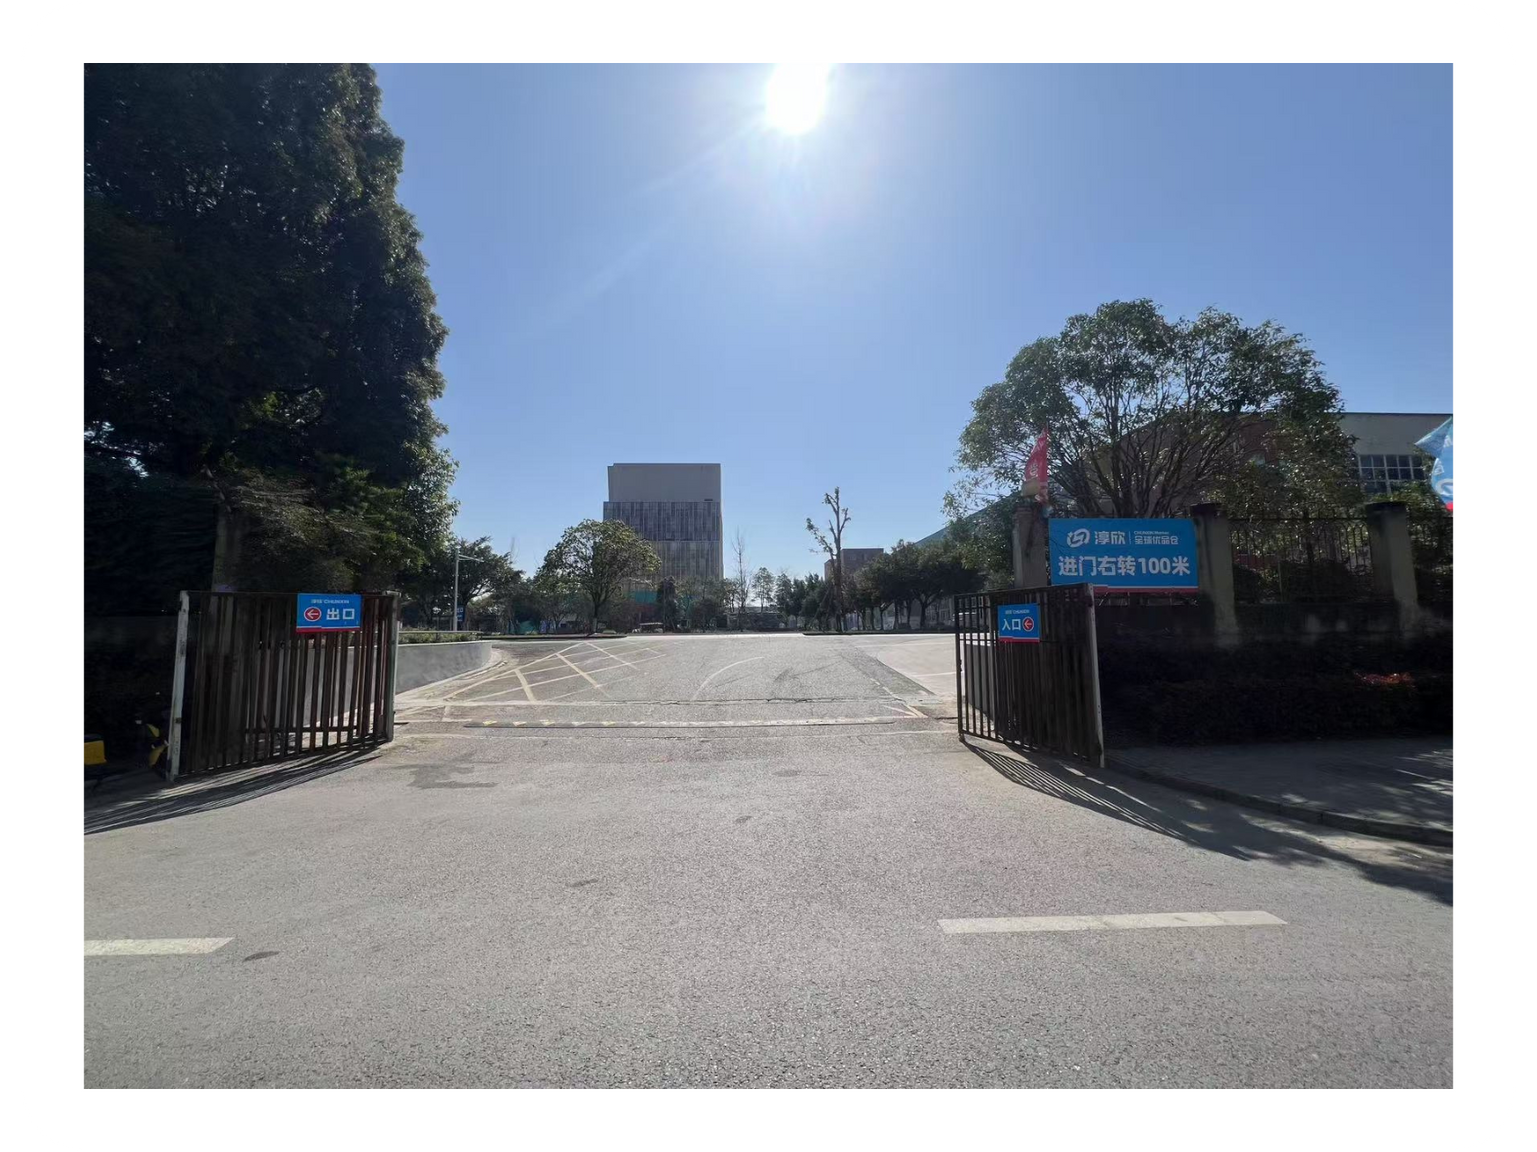
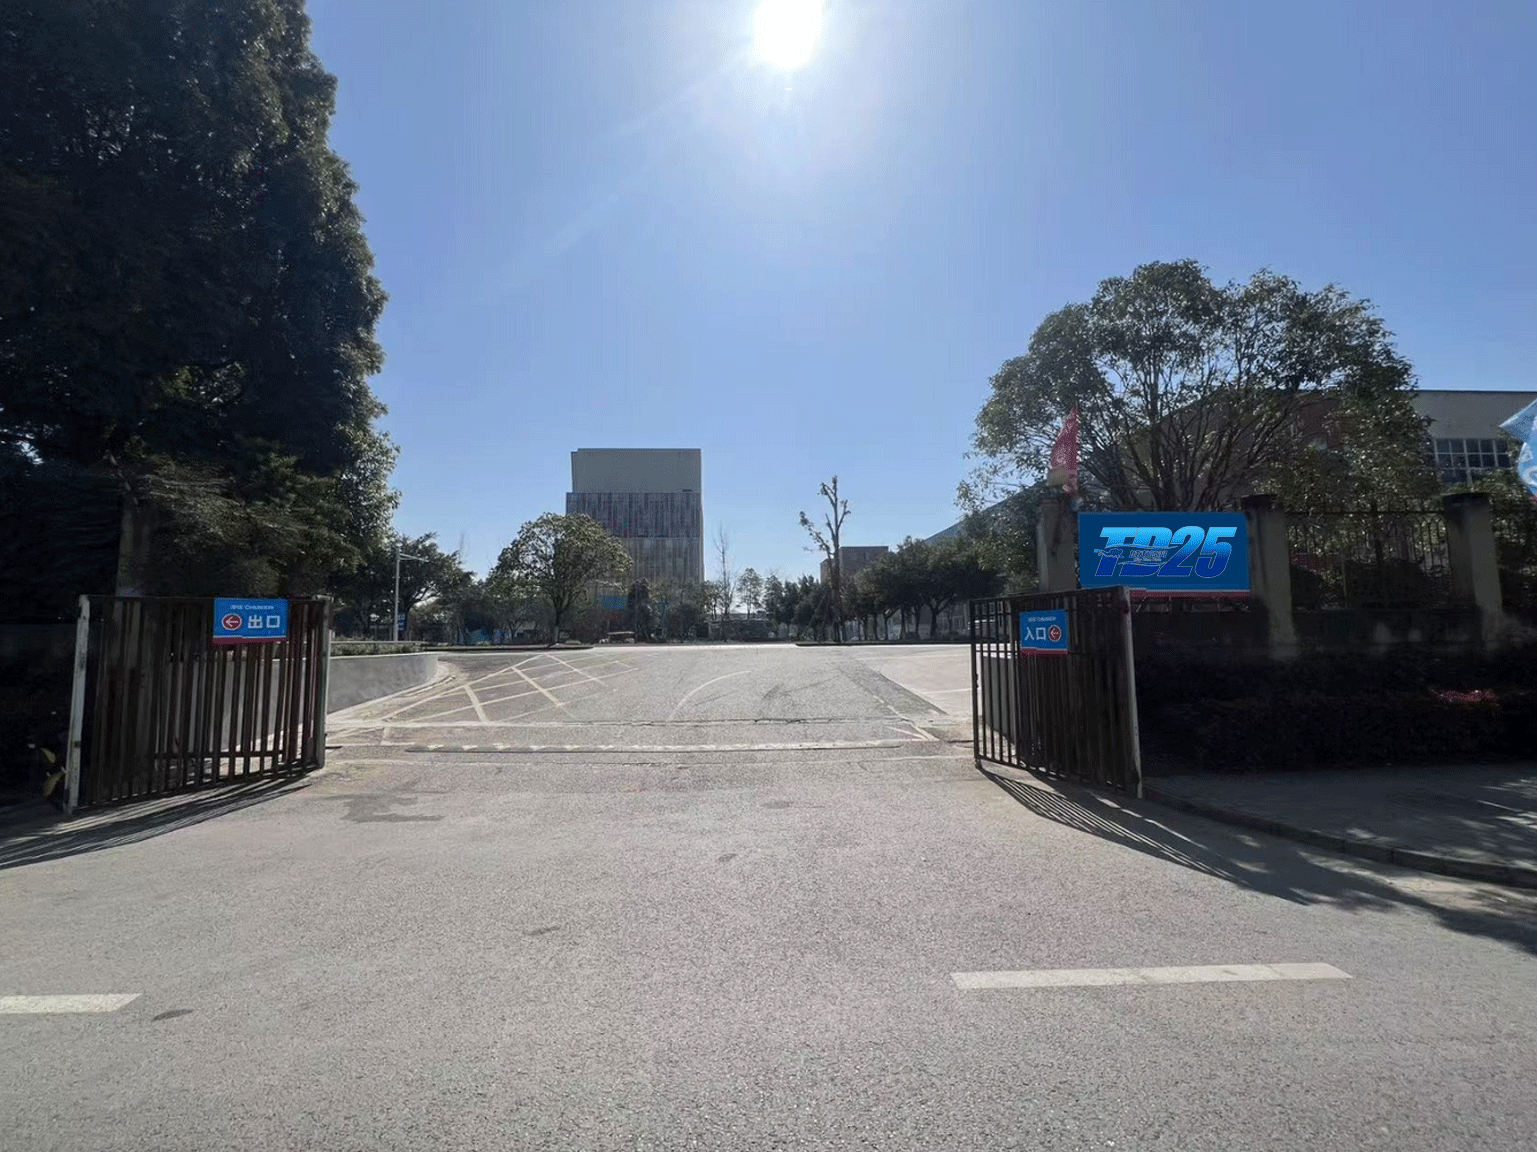
Update parking guide content and images

diff --git a/index.html b/index.html
@@ -458,7 +458,7 @@
             <span>Parking Guidance</span>
           </div>
         </div>
-        <a class="call-btn" href="tel:13800138000">打电话</a>
+        <a class="call-btn" href="tel:19136299202">打电话</a>
       </div>
     </div>
 
@@ -585,16 +585,15 @@
       <div class="quick-notice" style="margin-top: 0; margin-bottom: 14px;">
         <strong>先记住这三件事</strong>
         <ul>
-          <li>不要把导航终点直接理解成车位位置，先到园区入口。</li>
-          <li>通过闸机后不要直行，第一时间右转。</li>
-          <li>车位不在门店门口，在路口对面的红色建筑下方。</li>
+          <li>通过大门口后不要直行，第一时间右转。</li>
+          <li>车位不在门店门口，在路口右前方的红色建筑下方。</li>
         </ul>
       </div>
       <strong>CAUTION · 停车须知</strong>
       <p>如果到了园区门口还拿不准方向，就先看第 2 张图再进门。真正容易出错的不是找门店，而是进门后没有马上右转。若车位临时占用，请直接电话联系门店。</p>
     </section>
 
-    <div class="footer">TD25 URBAN BLUE HOLE · PARKING ARRIVAL PAGE</div>
+    <div class="footer">TD25 CITY BLUE HOLE · PARKING ARRIVAL PAGE</div>
   </div>
 </body>
 </html>
